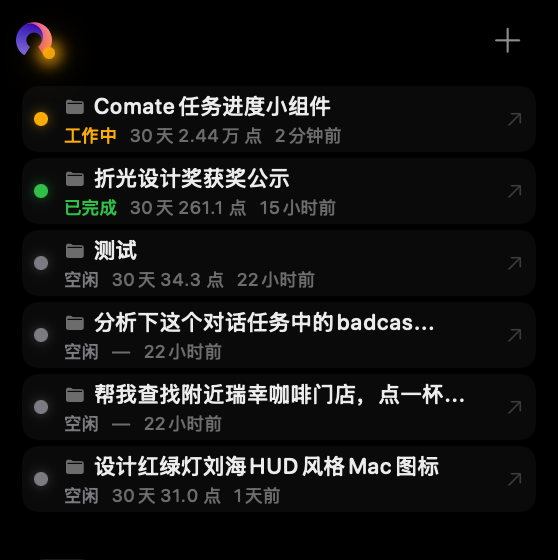
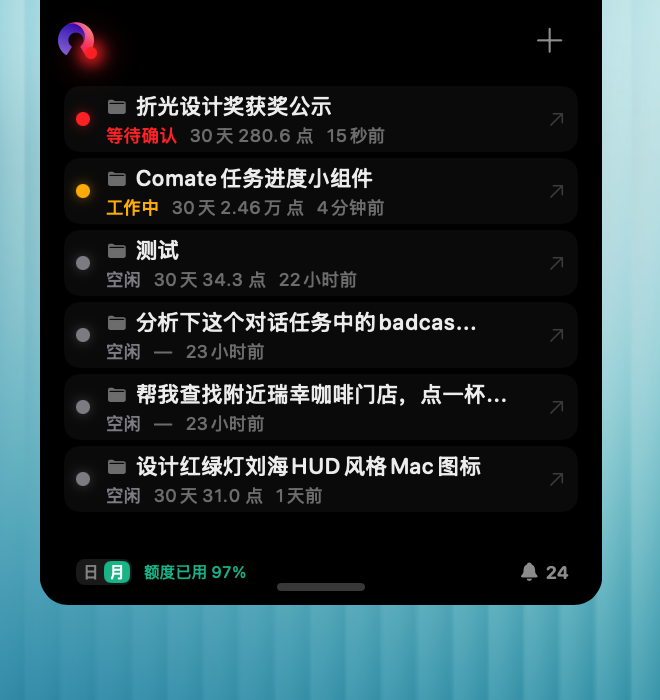
sync: push at 1790214007

diff --git a/ComateHUD/index.html b/ComateHUD/index.html
@@ -92,17 +92,7 @@
     .sim-hud .sim-light.red { background: var(--red); box-shadow: 0 0 8px var(--red); animation: blink 0.55s ease-in-out infinite; }
     .sim-hud .sim-badge { font-size: 11px; font-weight: 600; color: var(--text-secondary); background: rgba(255,255,255,0.06); padding: 3px 10px; border-radius: 999px; }
     .sim-hud .sim-bell { width: 22px; height: 22px; border-radius: 50%; background: rgba(255,255,255,0.06); display: flex; align-items: center; justify-content: center; font-size: 11px; color: var(--text-secondary); }
-    .sim-panel { width: 280px; background: #111118; border-radius: 16px; border: 1px solid rgba(255,255,255,0.06); overflow: hidden; box-shadow: 0 12px 40px rgba(0,0,0,0.6); }
-    .sim-panel-header { padding: 14px 16px 10px; font-size: 11px; font-weight: 600; color: var(--text-dim); text-transform: uppercase; letter-spacing: 0.08em; }
-    .sim-task { display: flex; align-items: center; gap: 10px; padding: 10px 16px; }
-    .sim-task .t-light { width: 7px; height: 7px; border-radius: 50%; flex-shrink: 0; }
-    .sim-task .t-info { flex: 1; min-width: 0; }
-    .sim-task .t-name { font-size: 12px; font-weight: 500; white-space: nowrap; overflow: hidden; text-overflow: ellipsis; }
-    .sim-task .t-desc { font-size: 10px; color: var(--text-dim); white-space: nowrap; overflow: hidden; text-overflow: ellipsis; }
-    .sim-task .t-time { font-size: 10px; color: var(--text-dim); flex-shrink: 0; }
-    .sim-panel-footer { padding: 12px 16px; border-top: 1px solid rgba(255,255,255,0.04); display: flex; justify-content: space-between; align-items: center; }
-    .sim-panel-footer .usage { font-size: 11px; color: var(--accent); }
-    .sim-panel-footer .usage span { color: var(--text-dim); }
+    .mockup-shot { width: 280px; height: auto; display: block; box-shadow: 0 12px 40px rgba(0,0,0,0.6); }
     .features { padding: 80px 0; }
     .features-grid { display: grid; grid-template-columns: repeat(auto-fit, minmax(300px, 1fr)); gap: 20px; }
     .feature-card { background: var(--bg-card); border: 1px solid rgba(255,255,255,0.06); border-radius: var(--radius); padding: 36px 28px; transition: all 0.3s cubic-bezier(0.22,1,0.36,1); position: relative; overflow: hidden; }
@@ -291,14 +281,7 @@
         <div class="sim-hud">
           <div class="logo">C</div><div class="sim-light yellow"></div><div class="sim-badge">7 任务</div><div class="sim-bell">🔔</div>
         </div>
-        <div class="sim-panel">
-          <div class="sim-panel-header">最近任务</div>
-          <div class="sim-task"><div class="t-light" style="background:var(--yellow);box-shadow:0 0 6px var(--yellow)"></div><div class="t-info"><div class="t-name">周报生成器</div><div class="t-desc">正在采集 IM 消息...</div></div><div class="t-time">12s</div></div>
-          <div class="sim-task"><div class="t-light" style="background:var(--green);box-shadow:0 0 6px var(--green)"></div><div class="t-info"><div class="t-name">代码审查 - API 模块</div><div class="t-desc">已完成，等待查看</div></div><div class="t-time">2m</div></div>
-          <div class="sim-task"><div class="t-light" style="background:var(--red);box-shadow:0 0 6px var(--red);animation:blink 0.55s infinite"></div><div class="t-info"><div class="t-name">部署脚本修复</div><div class="t-desc">需要你确认...</div></div><div class="t-time">5m</div></div>
-          <div class="sim-task"><div class="t-light" style="background:var(--green);box-shadow:0 0 6px var(--green)"></div><div class="t-info"><div class="t-name">产品介绍页</div><div class="t-desc">已生成 HTML 文件</div></div><div class="t-time">1m</div></div>
-          <div class="sim-panel-footer"><div class="usage">日限额：已用 82% <span>· 点击切换</span></div></div>
-        </div>
+        <img class="mockup-shot" src="./assets/hud-real.png" alt="Comate HUD 真实运行截图：刘海区展开的任务面板，含状态灯、最近任务列表与耗时" />
       </div>
     </div>
   </div>
